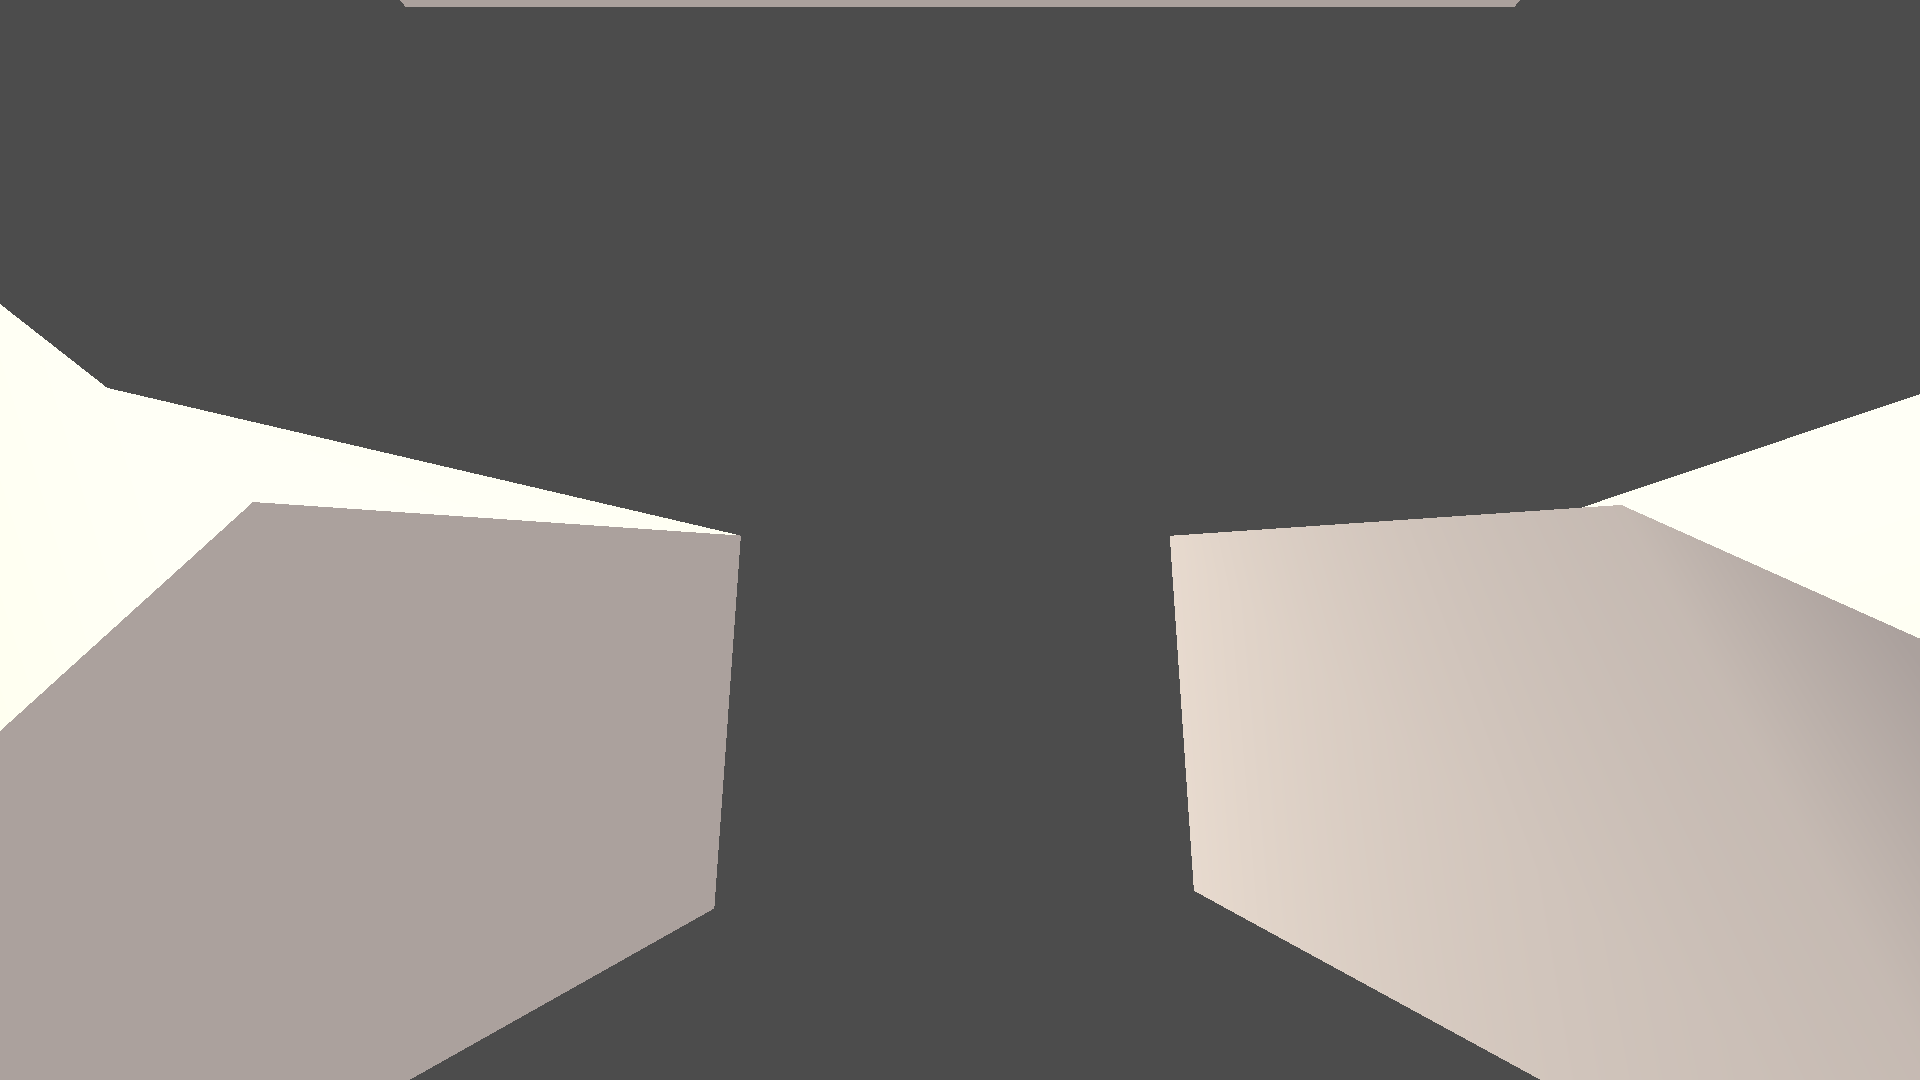
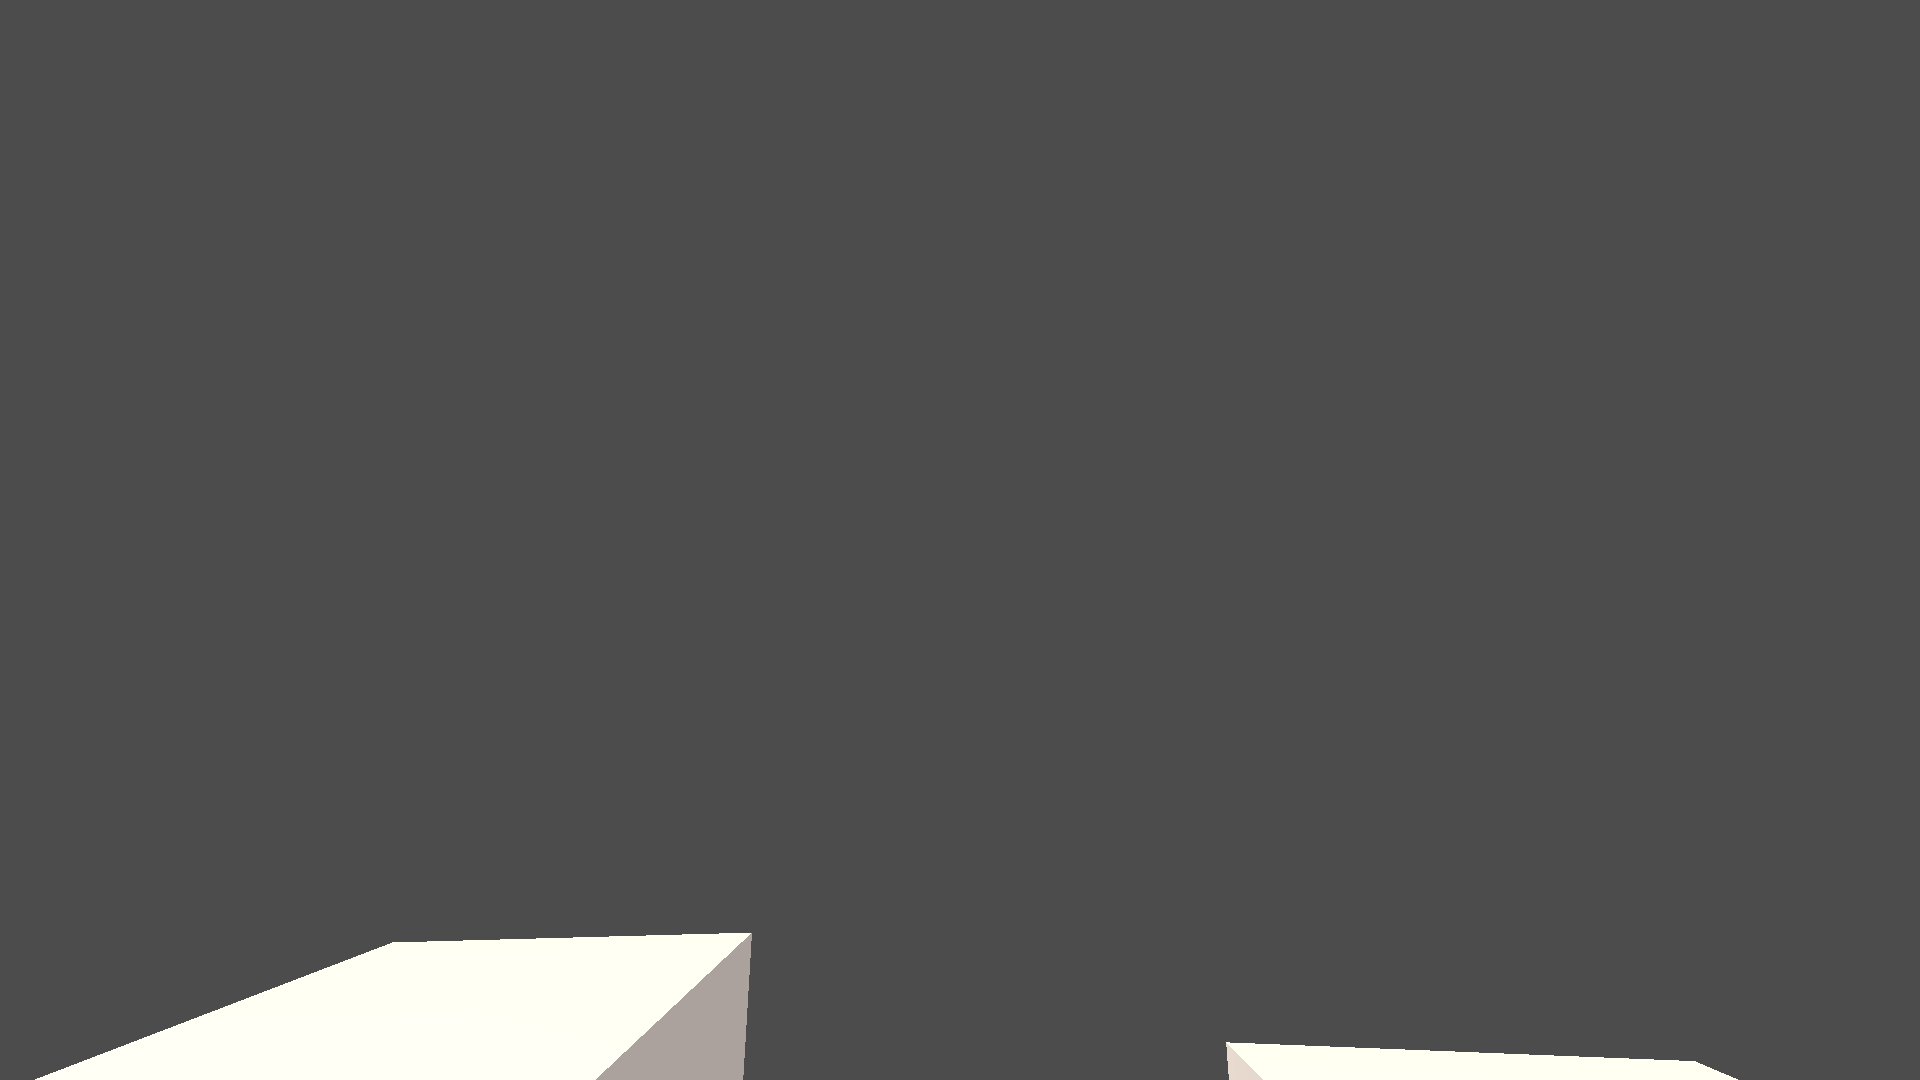
Update pr-79's evidence: the eye is the authored Spot, not the neck joint
Claude-Session: https://claude.ai/code/session_01EtD31N1LUihy8oyt1TQNSD

diff --git a/README.md b/README.md
@@ -17,22 +17,34 @@ First person, 1152x648, no world build — `CHAR_ONLY=1 CHAR_FIRST=1` frames the
 game's own view does, so a stance can be read off a render that takes seconds:
 
 ```sh
-CHAR_ONLY=1 CHAR_FIRST=1 CHAR_STANCE=Crouch SCREENSHOT_PATH=after-crouch.png "$GODOT" --path .
+CHAR_ONLY=1 CHAR_FIRST=1 CHAR_STANCE=Crouch                SCREENSHOT_PATH=after-crouch.png "$GODOT" --path .
+CHAR_ONLY=1 CHAR_FIRST=1 CHAR_GESTURE=Punch_Left CHAR_ANIM_TIME=0.10 SCREENSHOT_PATH=after-punch.png "$GODOT" --path .
 ```
 
-`before` adds `CHAR_REST_ANCHOR=1`, which pins the rig to its BIND pose the way the branch did before
-this fix. Unturned parents the first-person camera under the viewmodel skeleton's Skull
-(`firstSkeleton/Spine/Skull/ViewmodelCamera`), so the eye rides the animated head; a bind-pose offset
-only agrees with that while the character is standing.
+`before` adds `CHAR_REST_ANCHOR=1`, which pins the rig to its bind pose the way the branch did before
+the framing was fixed.
+
+The head BONE is a joint at the neck (1.3202 m in the prefab), and the shoulders sit at the identical
+height. Anchoring first person on it put the camera inside the neck: the head hung over the top of the
+screen and the arms swept through the near plane at eye level. The eye is `Skull/Spot`, 0.45 m further
+along the head at 1.7702 m — the same height as the prefab's own `Aim/Fire`, and the point `Player.cs`
+equates with the first-person camera.
 
 | stance | before | after |
 |---|---|---|
-| stand | the frame the fix must not change | byte-identical to before |
-| crouch | the screen filled edge to edge with skin — the camera inside the torso | clean, byte-identical to the standing frame |
-| prone | the body a sliver at the bottom: the eye floating above a character lying down | inside the head, arms framing the view from both sides |
+| stand | ![](https://raw.githubusercontent.com/jlucaso1/unturned-godot/screenshots/pr-79/before-stand.png) | ![](https://raw.githubusercontent.com/jlucaso1/unturned-godot/screenshots/pr-79/after-stand.png) |
+| running | ![](https://raw.githubusercontent.com/jlucaso1/unturned-godot/screenshots/pr-79/before-stand-moving.png) | ![](https://raw.githubusercontent.com/jlucaso1/unturned-godot/screenshots/pr-79/after-stand-moving.png) |
+| crouch | ![](https://raw.githubusercontent.com/jlucaso1/unturned-godot/screenshots/pr-79/before-crouch.png) | ![](https://raw.githubusercontent.com/jlucaso1/unturned-godot/screenshots/pr-79/after-crouch.png) |
+| prone | ![](https://raw.githubusercontent.com/jlucaso1/unturned-godot/screenshots/pr-79/before-prone.png) | ![](https://raw.githubusercontent.com/jlucaso1/unturned-godot/screenshots/pr-79/after-prone.png) |
 
-The `-moving` pair is the same three stances on their `Move_` clips rather than `Idle_`, which is where
-the arms are actually in shot.
+Stand, running, crouch and crouch-running all come out **byte-identical to an empty frame** after: no
+head, no torso, nothing. Prone leaves the forearms resting in the bottom corners with the view down the
+middle. The punch is the case the framing exists for:
+
+![](https://raw.githubusercontent.com/jlucaso1/unturned-godot/screenshots/pr-79/after-punch.png)
+
+A whole fist arriving from the lower left, with none of the sliced-open cross-section the near plane
+used to cut through the arm.
 
 ## pr-80 — [Leave a skinned part where its bones put it, not where its node sits](https://github.com/jlucaso1/unturned-godot/pull/80)
 
